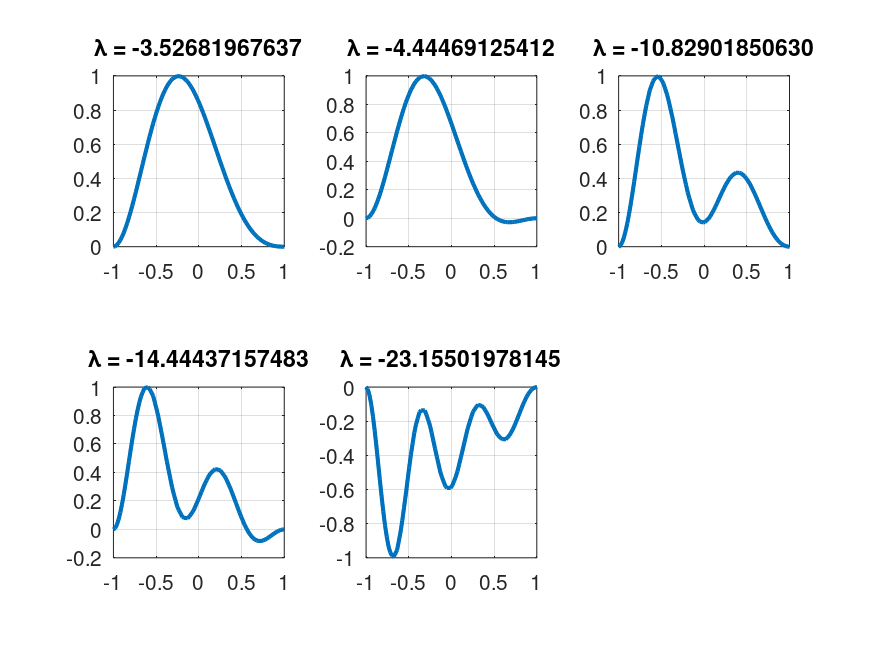
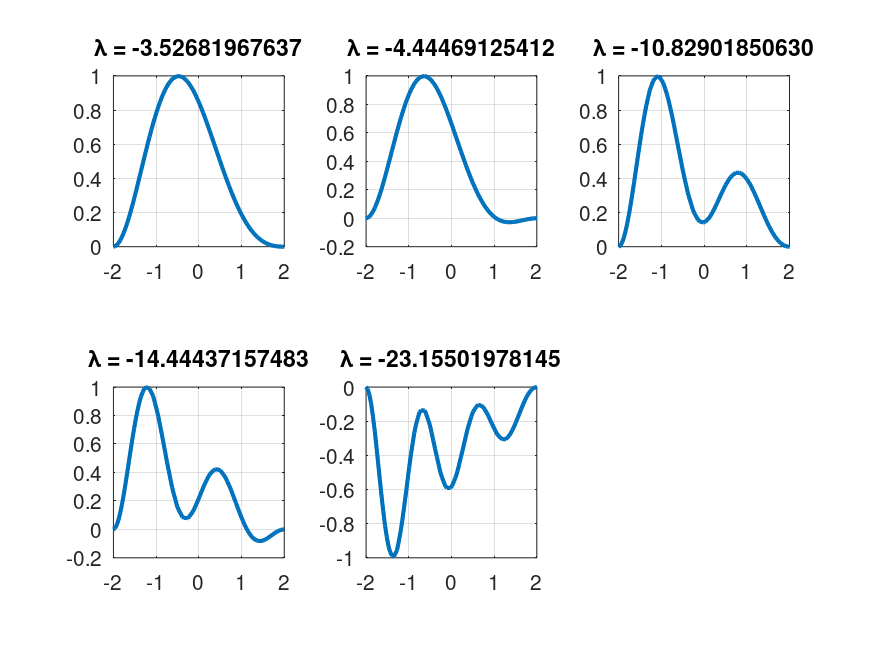
MATH6680: Completed Problems 2 and 5.

diff --git a/2023/spring/MATH6680_ScientificComputationII/Homework3/p37.m b/2023/spring/MATH6680_ScientificComputationII/Homework3/p37.m
@@ -1,0 +1,31 @@
+% p37.m - 2D "wave tank" with Neumann BCs for |y|=1
+
+% x variable in [-A,A], Fourier:
+  A = 3; Nx = 50; dx = 2*A/Nx; x = -A+dx*(1:Nx)';
+  D2x = (pi/A)^2*toeplitz([-1/(3*(dx/A)^2)-1/6 ...
+           .5*(-1).^(2:Nx)./sin((pi*dx/A)*(1:Nx-1)/2).^2]);
+
+% y variable in [-1,1], Chebyshev:
+  Ny = 15; [Dy,y] = cheb(Ny); D2y = Dy^2;
+  BC = -Dy([1 Ny+1],[1 Ny+1])\Dy([1 Ny+1],2:Ny);
+
+% Grid and initial data:
+  [xx,yy] = meshgrid(x,y);
+  vv = exp(-8*((xx+1.5).^2+yy.^2));
+  dt = 5/(Nx+Ny^2); 
+  vvold = exp(-8*((xx+dt+1.5).^2+yy.^2));
+
+% Time-stepping by leap frog formula:
+  clf, plotgap = round(2/dt); dt = 2/plotgap;
+  for n = 0:2*plotgap
+    t = n*dt;
+    if rem(n+.5,plotgap)<1
+      subplot(3,1,n/plotgap+1), mesh(xx,yy,vv), view(-10,60)
+      axis([-A A -1 1 -0.15 1]), colormap(1e-6*[1 1 1]);
+      text(-2.5,1,.5,['t = ' num2str(t)],'fontsize',18),
+      set(gca,'ztick',[]), grid off, drawnow
+    end
+    vvnew = 2*vv - vvold + dt^2*(vv*D2x +D2y*vv);
+    vvold = vv; vv = vvnew;
+    vv([1 Ny+1],:) = BC*vv(2:Ny,:);       % Neumann BCs for |y|=1
+  end

diff --git a/2023/spring/MATH6680_ScientificComputationII/Homework3/problem_2.m b/2023/spring/MATH6680_ScientificComputationII/Homework3/problem_2.m
@@ -1,0 +1,30 @@
+z = @(theta) exp(1i*theta);
+f = @(z) log(1 + z./2);
+
+N = 50;
+M = 20;  % Number of Taylor series coefficients
+
+% Manual computation via periodic trapezoid rule
+%
+taylor_trapsum = zeros(1, M);
+
+tt = 2*pi*(0:N-1)/N;
+zz = z(tt);
+
+for m = 0:M-1
+    taylor_trapsum(m+1) = real(mean(exp(-1i * m * tt) .* f(zz)));
+end
+
+disp('Computation via periodic trapezoidal sum:')
+disp(taylor_trapsum(1:5))
+
+% FFT computation
+%
+taylor_fft = real(fft(f(zz), N) / length(zz));
+
+disp('Computation via FFT:')
+disp(taylor_fft(1:5))
+
+% Print sequential ratios
+%
+% taylor_fft(2:end) ./ taylor_fft(1:end-1)

diff --git a/2023/spring/MATH6680_ScientificComputationII/Homework3/problem_5.m b/2023/spring/MATH6680_ScientificComputationII/Homework3/problem_5.m
@@ -44,10 +44,10 @@ print('-dpng', 'problem_5_eigenvalues.png')
 %
 figure
 disp(eigenvalues(1:M))
-xx = linspace(-1, 1);
+xx = linspace(-2, 2);
 for i = 1:M
     subplot(2, 3, i)
-    plot(xx, interp1(x, [0; eigenvectors(:, i); 0], xx), 'linewidth', 2)
+    plot(xx, interp1(2*x, [0; eigenvectors(:, i); 0], xx), 'linewidth', 2)
     grid on
     axis square
     title(['\lambda = ' num2str(eigenvalues(i), '%15.11f')]);
